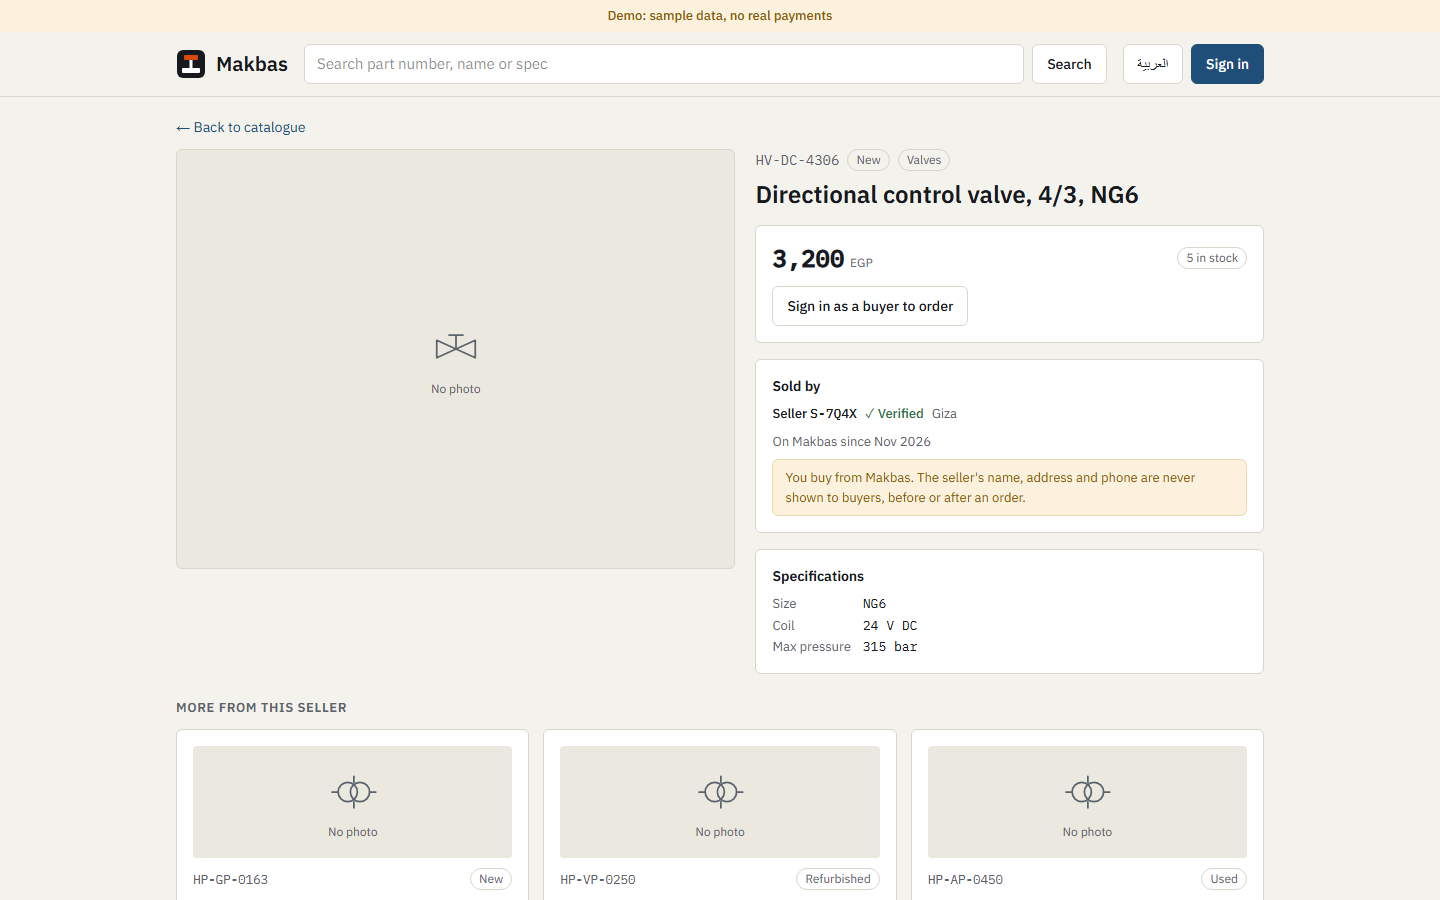
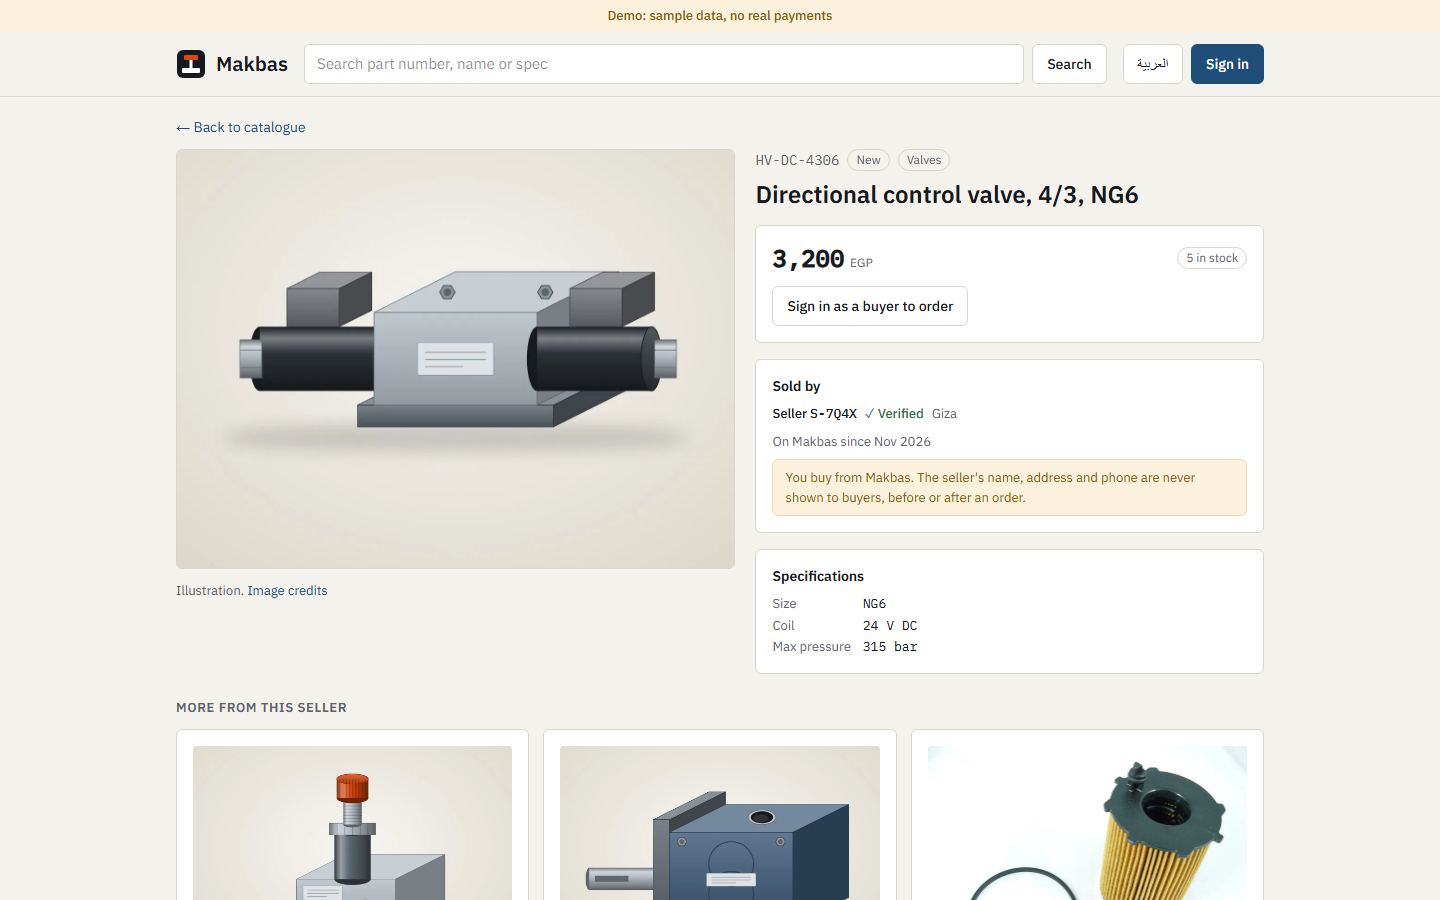
Docs: images on sample listings, credits, updated screenshots

Changed region(s): [[0.125, 0.8089, 0.875, 1.0], [0.1562, 0.28, 0.4688, 0.4978], [0.125, 0.6533, 0.2188, 0.6844]]

diff --git a/README.md b/README.md
@@ -145,13 +145,14 @@ cost; the moderation queue and strikes handle the rest.
 
 | Command | What it runs | Count |
 | --- | --- | --- |
-| `npm run test:unit` | Pure logic, no network | **93 tests** |
+| `npm run test:unit` | Pure logic, no network | **97 tests** |
 | `npm run test:db` | The real database API of the test project | **121 tests** |
 | `npm run test:crawl` | Builds the app against the test project, opens every page as 6 kinds of visitor | about 80 to 125 pages per visitor, plus access and webhook checks |
 
-Unit tests (93): contact filter 80 (phone numbers in three digit scripts, hidden with invisible
+Unit tests (97): contact filter 80 (phone numbers in three digit scripts, hidden with invisible
 characters, spelled out, split over messages; e-mails; links; handles; and 21 ordinary sentences about
-parts in English and Arabic that must pass), payment signature 5, photo metadata 4, money 4.
+parts in English and Arabic that must pass), payment signature 5, photo metadata 4, money 4, sample images 4 (every listing has one, every
+third-party photo has an author, a free licence and a source).
 
 Database tests (121):
 
@@ -191,6 +192,17 @@ You need Node 24 and two free Supabase projects (one for the demo data, one for 
 On Vercel the app needs `NEXT_PUBLIC_SUPABASE_URL`, `NEXT_PUBLIC_SUPABASE_PUBLISHABLE_KEY`,
 `SUPABASE_SECRET_KEY`, `DEMO_USER_PASSWORD`, `PAYMENT_HMAC_SECRET`, `DATABASE_URL` and `CRON_SECRET`.
 
+## Images on the sample listings
+
+Every sample listing has one image, for illustration only. None is a picture of an actual item for sale.
+
+- **10 photos** are freely licensed works from Wikimedia Commons (CC0, public domain, CC BY, CC BY-SA).
+  Each was checked for brand marks, resized and re-encoded. Author, licence and source page of each are
+  in [`scripts/seed-images/credits.json`](scripts/seed-images/credits.json) and on the demo's
+  [Image credits](https://makbas-nu.vercel.app/en/credits) page. They stay under their own licences.
+- **20 drawings** were made for this project ([`scripts/draw-parts.py`](scripts/draw-parts.py)).
+- No AI-generated images are used.
+
 ## Design assumptions
 
 - **The platform is the merchant of record and the shipper.** Invoices and waybills carry the platform's
@@ -227,4 +239,5 @@ tests/unit, tests/db   unit tests and database tests
 
 ## Licence
 
-MIT. See [LICENSE](LICENSE).
+MIT for the code and the drawings. See [LICENSE](LICENSE). The ten third-party photos in
+`scripts/seed-images/` are not covered by it: each keeps the licence listed in `credits.json`.
